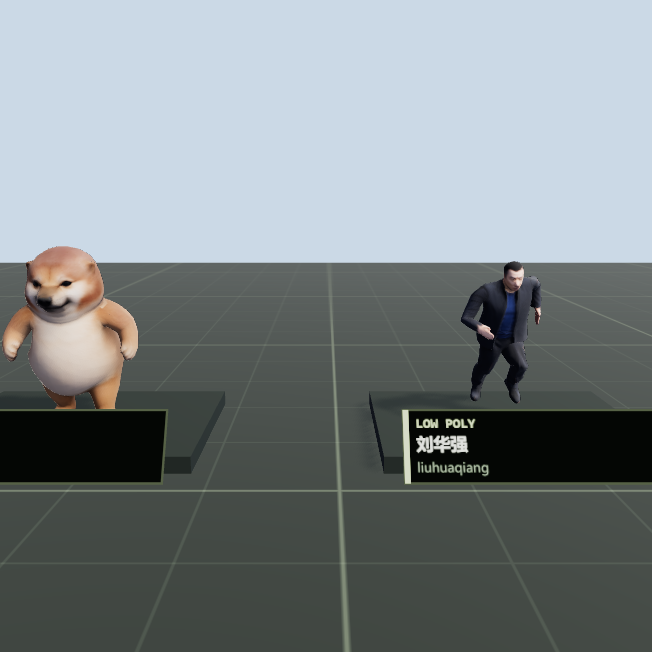
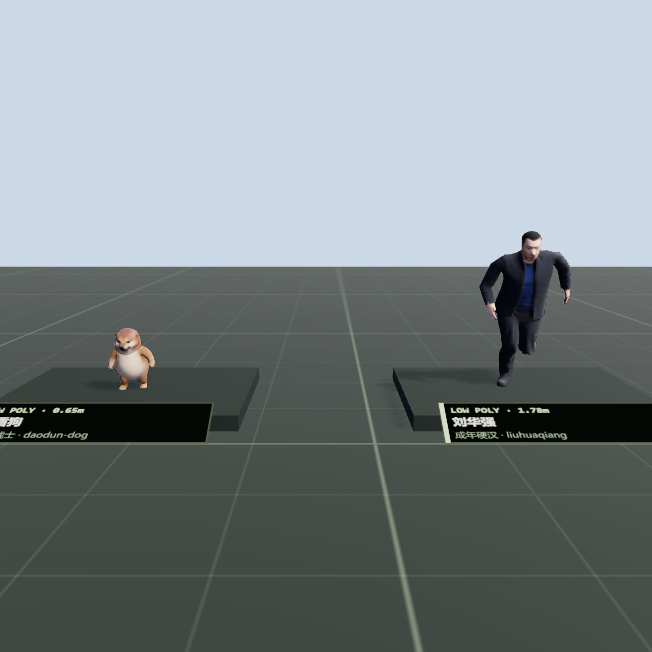
feat(webasset): calibrate character display heights by role identity

diff --git a/webasset/public/js/test-scenes/character-showcase.js b/webasset/public/js/test-scenes/character-showcase.js
@@ -1,5 +1,9 @@
 import * as THREE from 'three';
 import {
+  fitCharacterToIdentityScale,
+  resolveCharacterScaleSpec,
+} from '../hgame-shared.js';
+import {
   createPlaqueMesh,
   createSectionBannerMesh,
   createStudioFloor,
@@ -10,21 +14,6 @@ const BAY_X = 3.8;
 const ROW_Z = 7.2;
 const COLS_PER_ROW = 8;
 const MAX_SAFE_GLB_BYTES = 15 * 1024 * 1024;
-
-function groundAndFitModel(root, targetHeight = 1.65) {
-  root.updateMatrixWorld(true);
-  const box = new THREE.Box3().setFromObject(root);
-  if (box.isEmpty()) return 1.0;
-  const size = box.getSize(new THREE.Vector3());
-  const height = Math.max(0.1, size.y);
-  const scale = targetHeight / height;
-  root.scale.multiplyScalar(scale);
-  root.updateMatrixWorld(true);
-  const scaledBox = new THREE.Box3().setFromObject(root);
-  const center = scaledBox.getCenter(new THREE.Vector3());
-  root.position.set(-center.x, 0.14 - scaledBox.min.y, -center.z);
-  return scaledBox.getSize(new THREE.Vector3()).y;
-}
 
 export async function buildCharacterShowcaseScene({
   group,
@@ -88,6 +77,7 @@ export async function buildCharacterShowcaseScene({
     bay.add(pad);
 
     const hitMeshes = [pad];
+    const charSpec = resolveCharacterScaleSpec(ch);
     const lowModel = ch.models?.low;
     const highModel = ch.models?.high;
     const chosenModel = lowModel?.url
@@ -97,6 +87,7 @@ export async function buildCharacterShowcaseScene({
         : null);
 
     let modeLabel = chosenModel ? chosenModel.kind : (highModel?.url ? 'HIGH (点独立页检视)' : '参考图');
+    let fittedHeight = charSpec.height;
 
     if (chosenModel) {
       try {
@@ -110,7 +101,11 @@ export async function buildCharacterShowcaseScene({
             hitMeshes.push(n);
           }
         });
-        groundAndFitModel(root, 1.65);
+        const fitted = fitCharacterToIdentityScale(root, { ...ch, height: charSpec.height }, {
+          groundY: 0.14,
+          centerXZ: true,
+        });
+        fittedHeight = fitted.height;
         bay.add(root);
         loaded3dCount += 1;
 
@@ -133,8 +128,8 @@ export async function buildCharacterShowcaseScene({
           if (token !== getToken()) return;
           tex.colorSpace = THREE.SRGBColorSpace;
           const aspect = (tex.image?.width || 1) / Math.max(1, tex.image?.height || 1);
-          const h = 1.65;
-          const w = Math.min(2.0, h * aspect);
+          const h = charSpec.height;
+          const w = Math.min(2.2, Math.max(0.32, h * aspect));
           const back = new THREE.Mesh(new THREE.BoxGeometry(w + 0.08, h + 0.08, 0.05), frameMat);
           back.position.set(0, 0.14 + h * 0.5, -0.04);
           back.castShadow = true;
@@ -151,38 +146,43 @@ export async function buildCharacterShowcaseScene({
 
     if (token !== getToken()) return;
 
+    const heightTag = `${fittedHeight.toFixed(2)}m`;
     const plaque = createPlaqueMesh({
-      badge: modeLabel,
+      badge: `${modeLabel} · ${heightTag}`,
       title: ch.name || ch.id,
-      subtitle: ch.id,
-      width: 2.1,
-      height: 0.54,
+      subtitle: `${charSpec.role} · ${ch.id}`,
+      width: 1.95,
+      height: 0.44,
       accentHex: '#d5e4b4',
     });
-    plaque.position.set(0, 0.36, 1.25);
-    plaque.rotation.x = -0.5;
+    plaque.position.set(0, 0.19, 1.24);
+    plaque.rotation.x = -1.05;
     bay.add(plaque);
     hitMeshes.push(plaque);
 
     group.add(bay);
 
+    const focusY = 0.14 + Math.max(0.28, fittedHeight * 0.55);
+    const focusDist = Math.max(1.85, fittedHeight * 1.65 + 0.6);
     registerExhibit(exhibits, {
       id: ch.id,
       workspace: 'characters',
       kind: 'character',
       title: ch.name || ch.id,
-      subtitle: `角色 · ${modeLabel}`,
+      subtitle: `${charSpec.role} · ${heightTag} · ${modeLabel}`,
       category: 'characters',
       meta: {
         id: ch.id,
+        身份定位: charSpec.role,
+        标准身高: heightTag,
         low: lowModel?.name || '无',
         high: highModel?.name || '无',
       },
       object: bay,
       hitMeshes,
-      focusPos: [cx, 1.45, cz + 3.5],
-      focusTarget: [cx, 0.95, cz],
-      focusRadius: 2.0,
+      focusPos: [cx, Math.max(0.95, fittedHeight * 0.9 + 0.35), cz + focusDist],
+      focusTarget: [cx, focusY, cz],
+      focusRadius: Math.max(1.15, fittedHeight * 1.1),
     });
   }));
 
@@ -193,9 +193,9 @@ export async function buildCharacterShowcaseScene({
       target: [centerX, 0.9, centerZ],
     },
     front_row: {
-      label: '前排近景检视',
-      pos: [Math.min(6, centerX), 2.1, 5.8],
-      target: [Math.min(6, centerX), 1.0, 0],
+      label: '前排近景对比 (矮→高)',
+      pos: [Math.min(5.7, centerX), 1.85, 6.4],
+      target: [Math.min(5.7, centerX), 0.78, 0.1],
     },
   };
 

diff --git a/webasset/public/js/hgame-shared.js b/webasset/public/js/hgame-shared.js
@@ -1098,3 +1098,84 @@ export function requestGlbSquareThumb(url, thumbBox, fallbackEl) {
   glbThumbQueue.push({ url, onDone: applyUrl });
   void drainGlbThumbQueue();
 }
+
+export const CHARACTER_PHYSICAL_PROFILES = Object.freeze({
+  // 小型实景宠物 / 猫科
+  chouju: { height: 0.42, role: '家猫' },
+  maodie: { height: 0.40, role: '家猫' },
+  bananacat: { height: 0.48, role: '香蕉小猫' },
+  // 半人化动物 / 卡通萌宠吉祥物
+  'daodun-dog': { height: 0.65, role: '柴犬战士' },
+  'cat-knight': { height: 0.85, role: '猫骑士' },
+  naiwa: { height: 0.95, role: '卡通奶蛙' },
+  nailong: { height: 1.10, role: '幼龙' },
+  // 少年
+  'character-5bf3a802-2692-43f1-8598-cc3294c9f0b3': { height: 1.56, role: '初中少年' }, // 阿伟
+  // 二次元少女 / 成年女性
+  dafeiyu: { height: 1.58, role: '二次元少女' },
+  grok: { height: 1.60, role: '哥特少女' },
+  claude: { height: 1.62, role: '少女' },
+  'character-0eef1539-efff-4ea8-b926-a27e2060b9ae': { height: 1.63, role: '奇幻少女' }, // Gemini
+  doubao: { height: 1.64, role: '青年女性' },
+  'character-b3a75eb1-1ce2-4218-875b-5b463191d6f6': { height: 1.66, role: '国风女性' }, // 千问
+  gpt: { height: 1.68, role: '银发御姐' },
+  'character-6ce0c029-9a8c-4fbc-8f78-dce1da81ef0d': { height: 1.75, role: '高大女性' }, // 雨姐
+  // 成年男性 / 猛男硬汉
+  haoge: { height: 1.72, role: '中年男性' },
+  'character-3dca756f-0ef7-4d03-a008-11decc26c3cc': { height: 1.74, role: '男青年' }, // 杰哥
+  liuhuaqiang: { height: 1.78, role: '成年硬汉' },
+  'character-1efd121d-1f9e-4ab0-9164-8f2ca240da4b': { height: 1.80, role: '魁梧男性' }, // 梁子
+  'character-2dec31e2-0a13-4c28-b0ca-202fb40d4875': { height: 1.84, role: '肌肉猛男' }, // 阿诺
+  'character-5a7a1e23-8ba6-4ccb-9cb4-38df4d3f0b03': { height: 1.88, role: '高大西装男' }, // 梁圣
+});
+
+export function resolveCharacterScaleSpec(ch) {
+  const id = String(ch?.id || '').trim();
+  const explicitHeight = Number(ch?.height ?? ch?.scaleHeight);
+  const direct = CHARACTER_PHYSICAL_PROFILES[id];
+  if (Number.isFinite(explicitHeight) && explicitHeight > 0.1) {
+    return {
+      height: explicitHeight,
+      role: direct?.role || String(ch?.role || '角色'),
+    };
+  }
+  if (direct) return direct;
+
+  const text = [ch?.id, ch?.name, ...(ch?.aliases || []), ...(ch?.keywords || [])].join(' ').toLowerCase();
+  if (/knight|骑士/.test(text)) return { height: 0.85, role: '微型战士' };
+  if (/cat|猫|橘|kitty|meow/.test(text)) return { height: 0.42, role: '猫科动物' };
+  if (/dog|狗|犬|shiba|cheems/.test(text)) return { height: 0.65, role: '犬类角色' };
+  if (/frog|蛙/.test(text)) return { height: 0.95, role: '卡通蛙' };
+  if (/dragon|dino|龙/.test(text)) return { height: 1.10, role: '幼龙' };
+  if (/少年|男孩|kid|child|student|初中|阿伟/.test(text)) return { height: 1.56, role: '少年' };
+  if (String(ch?.gender || '').toLowerCase() === 'female' || /女|姐|girl|少女/.test(text)) {
+    return { height: 1.64, role: '女性' };
+  }
+  return { height: 1.74, role: '成年人' };
+}
+
+export function fitCharacterToIdentityScale(root, character, { groundY = 0, centerXZ = false } = {}) {
+  const spec = resolveCharacterScaleSpec(character);
+  root.updateMatrixWorld(true);
+  const box = new THREE.Box3().setFromObject(root);
+  if (box.isEmpty()) {
+    return { height: spec.height, role: spec.role, groundOffset: groundY };
+  }
+  const rawSize = box.getSize(new THREE.Vector3());
+  const rawHeight = Math.max(0.08, rawSize.y);
+  const scaleFactor = spec.height / rawHeight;
+  root.scale.multiplyScalar(scaleFactor);
+  root.updateMatrixWorld(true);
+  const scaledBox = new THREE.Box3().setFromObject(root);
+  const center = scaledBox.getCenter(new THREE.Vector3());
+  if (centerXZ) {
+    root.position.set(-center.x, groundY - scaledBox.min.y, -center.z);
+  } else {
+    root.position.y += groundY - scaledBox.min.y;
+  }
+  return {
+    height: scaledBox.getSize(new THREE.Vector3()).y,
+    role: spec.role,
+    groundOffset: root.position.y,
+  };
+}

diff --git a/webasset/public/js/hgame-decals.js b/webasset/public/js/hgame-decals.js
@@ -11,6 +11,7 @@ import {
   draw2MapChannelCanvases,
   drawImageFittedToCanvas,
   fetchUnrealCatalog,
+  fitCharacterToIdentityScale,
   getDefaultDecalHsvMatch,
   loadHtmlImage,
   loadSingle2MapAssets,
@@ -754,7 +755,7 @@ async function fetchSelfCharactersForRef() {
     for (const ch of data.items || []) {
       const url = ch?.models?.low?.url;
       if (url) {
-        list.push({ id: ch.id, name: ch.name || ch.id, url });
+        list.push({ id: ch.id, name: ch.name || ch.id, url, raw: ch });
       }
     }
     return list;
@@ -824,6 +825,8 @@ async function ensureReferenceCharacter(vp) {
 
     disposeReferenceCharacter();
     const root = gltf.scene;
+    fitCharacterToIdentityScale(root, ch.raw || ch, { groundY: 0, centerXZ: false });
+    root.position.set(0, 0, 0);
     const restSnap = captureNodeTransforms(root);
     let mixer = null;
 
